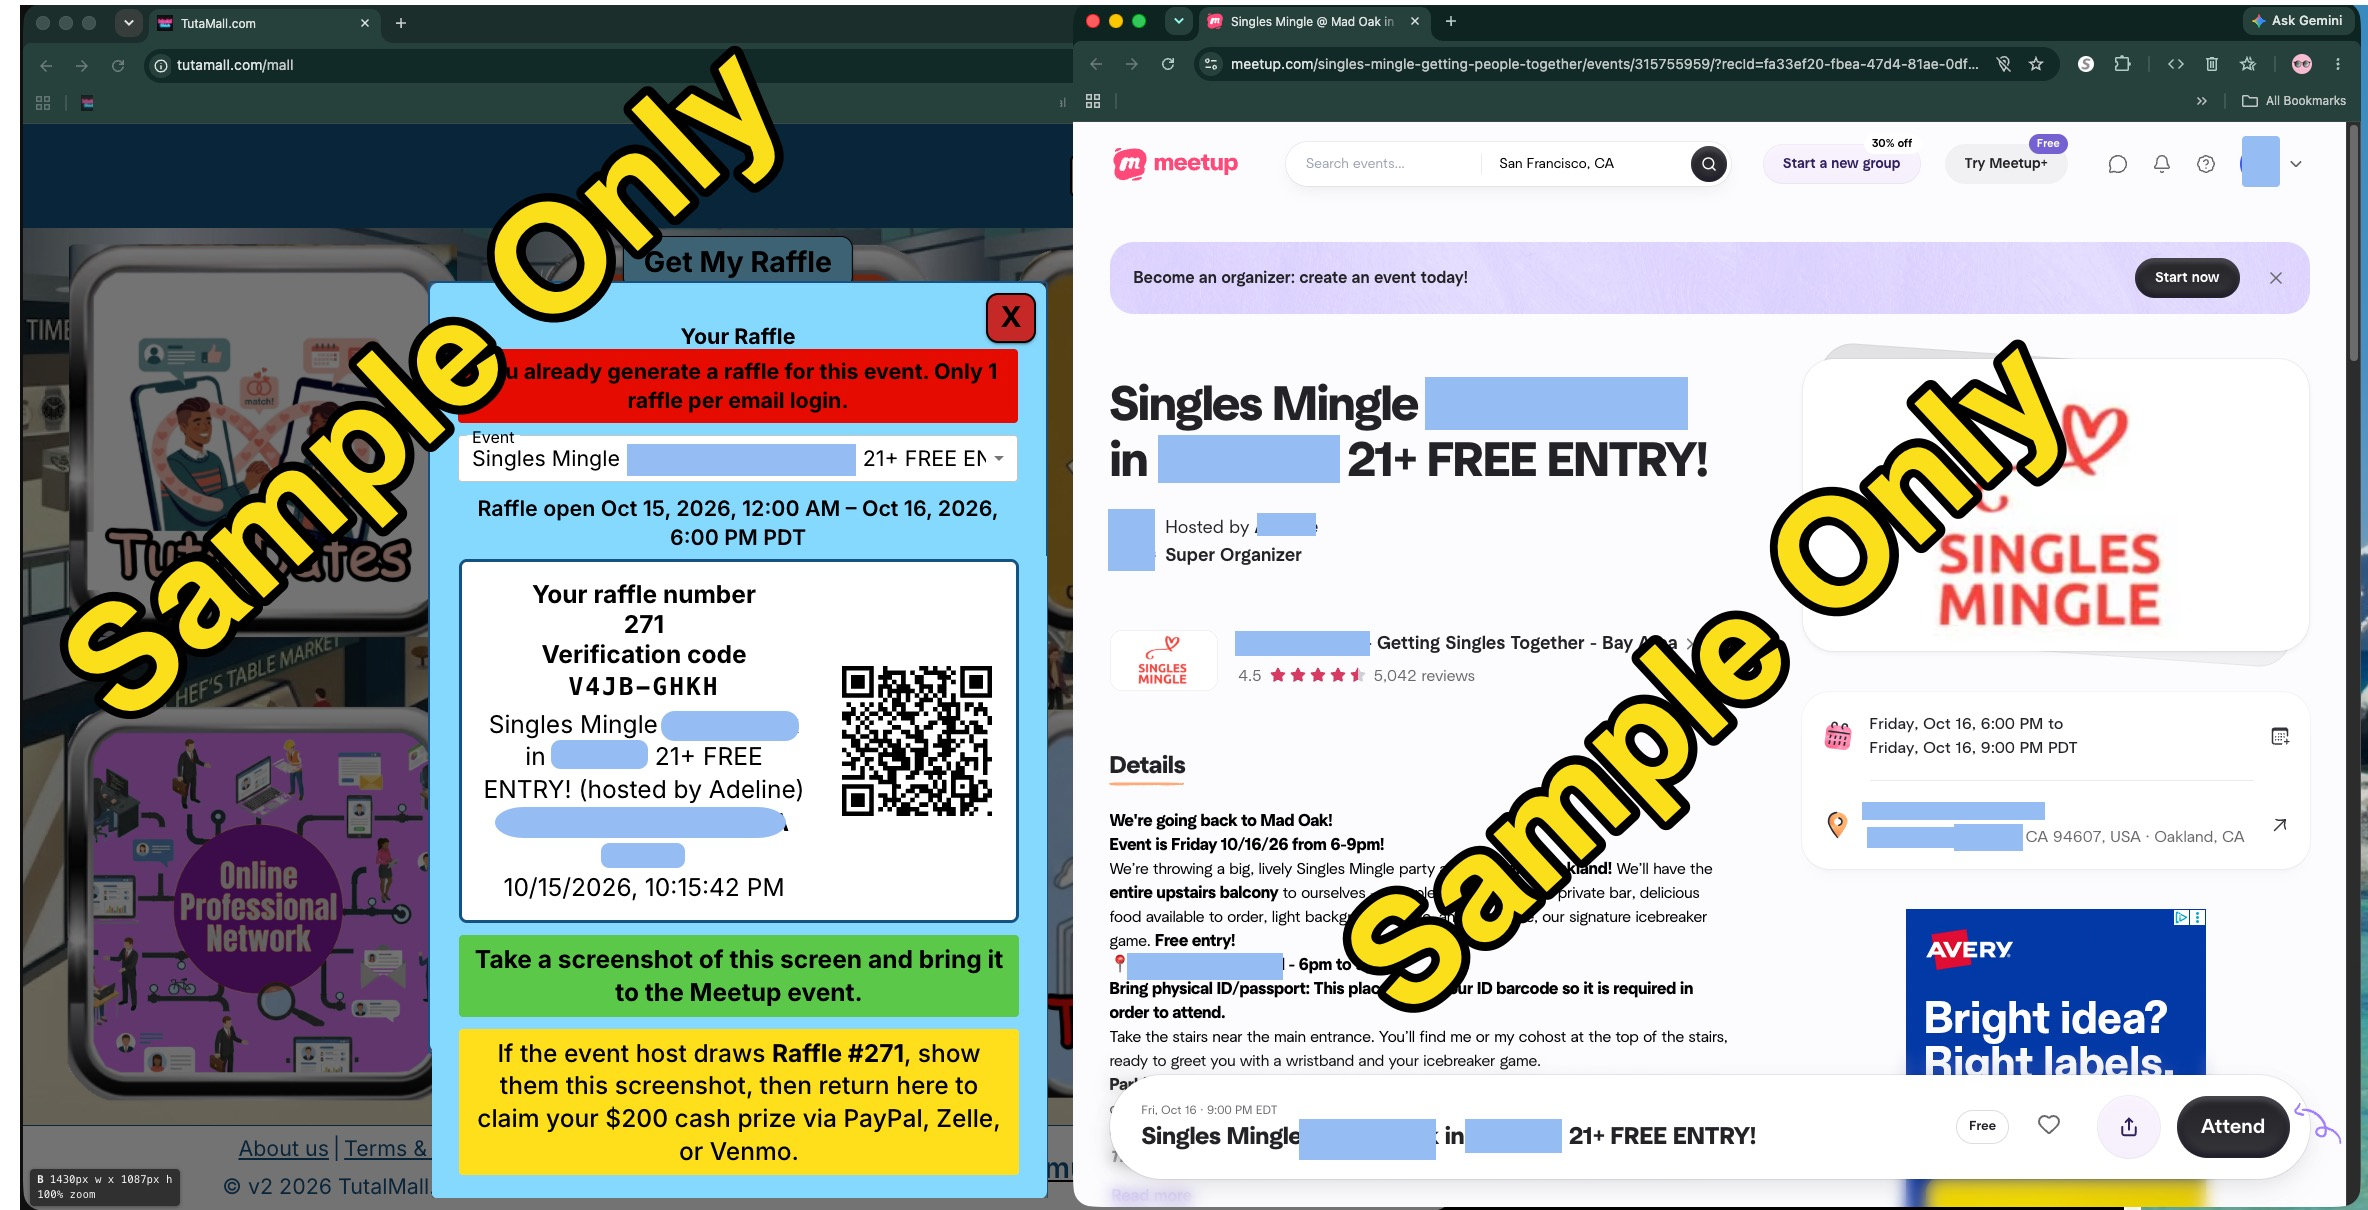
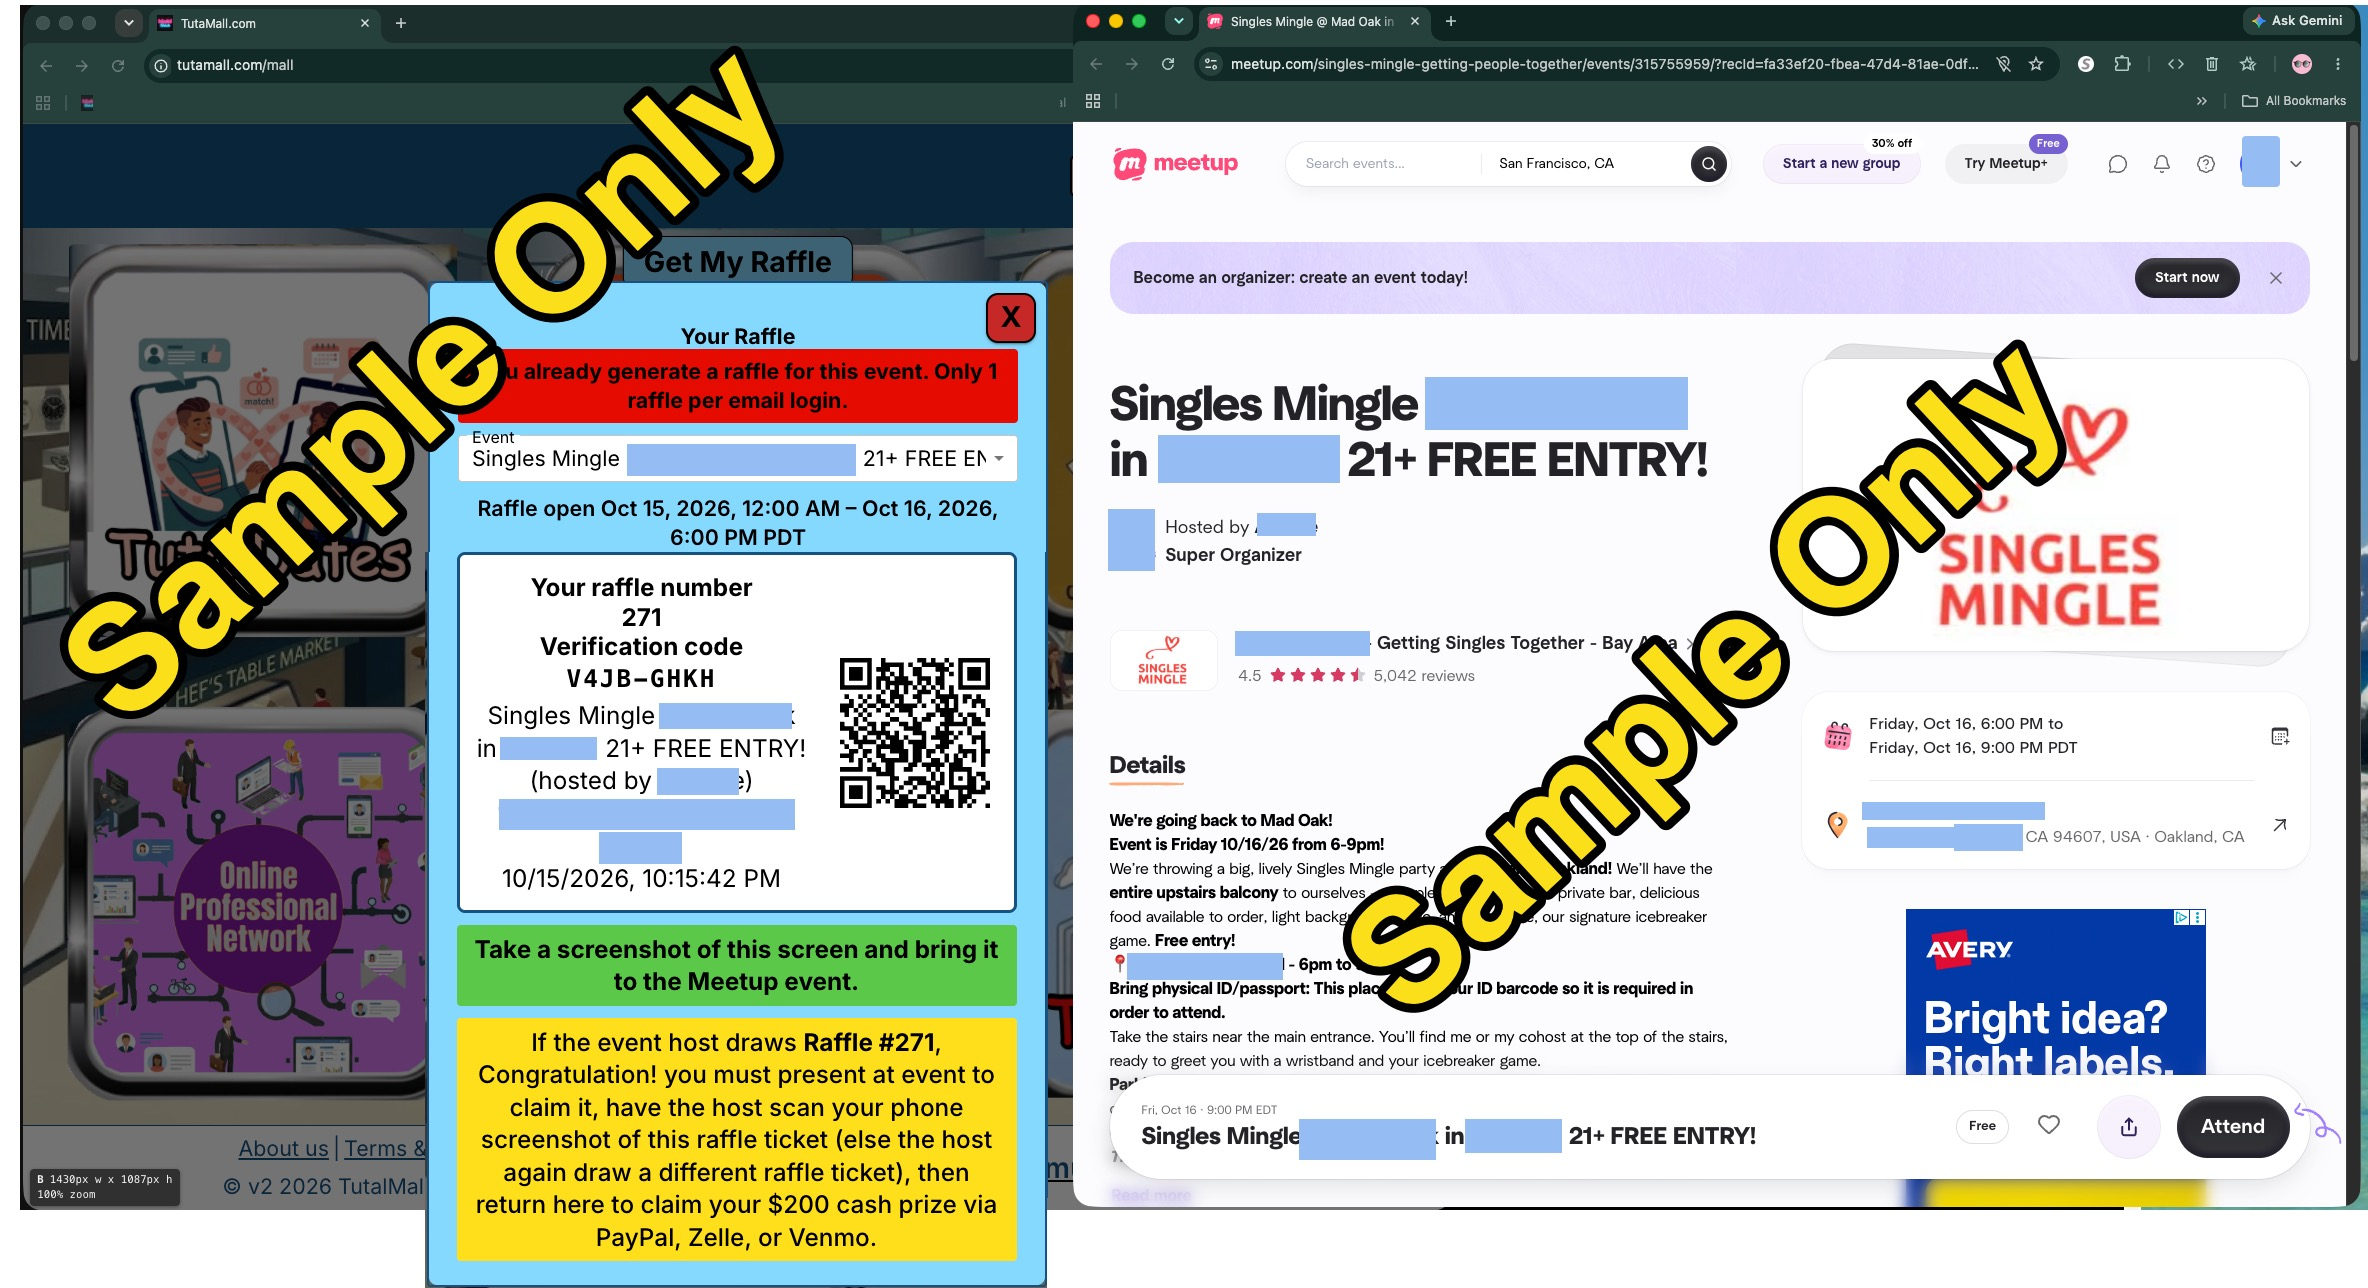
work_272_fix

diff --git a/fe/src/ui-component/GetMyRafflePopup.jsx b/fe/src/ui-component/GetMyRafflePopup.jsx
@@ -243,7 +243,7 @@ export default function GetMyRafflePopup({ open, onClose }) {
                 <Box component="strong" sx={{ fontWeight: 800 }}>
                   Raffle #{ticket.raffleNumber}
                 </Box>
-                , show them this screenshot, then return here to claim your $200 cash prize via PayPal, Zelle, or Venmo.
+                , Congratulation! you must present at event to claim it, have the host scan your phone screenshot of this raffle ticket (else the host again draw a different raffle ticket), then return here to claim your $200 cash prize via PayPal, Zelle, or Venmo.
               </Typography>
             </>
           ) : null}
